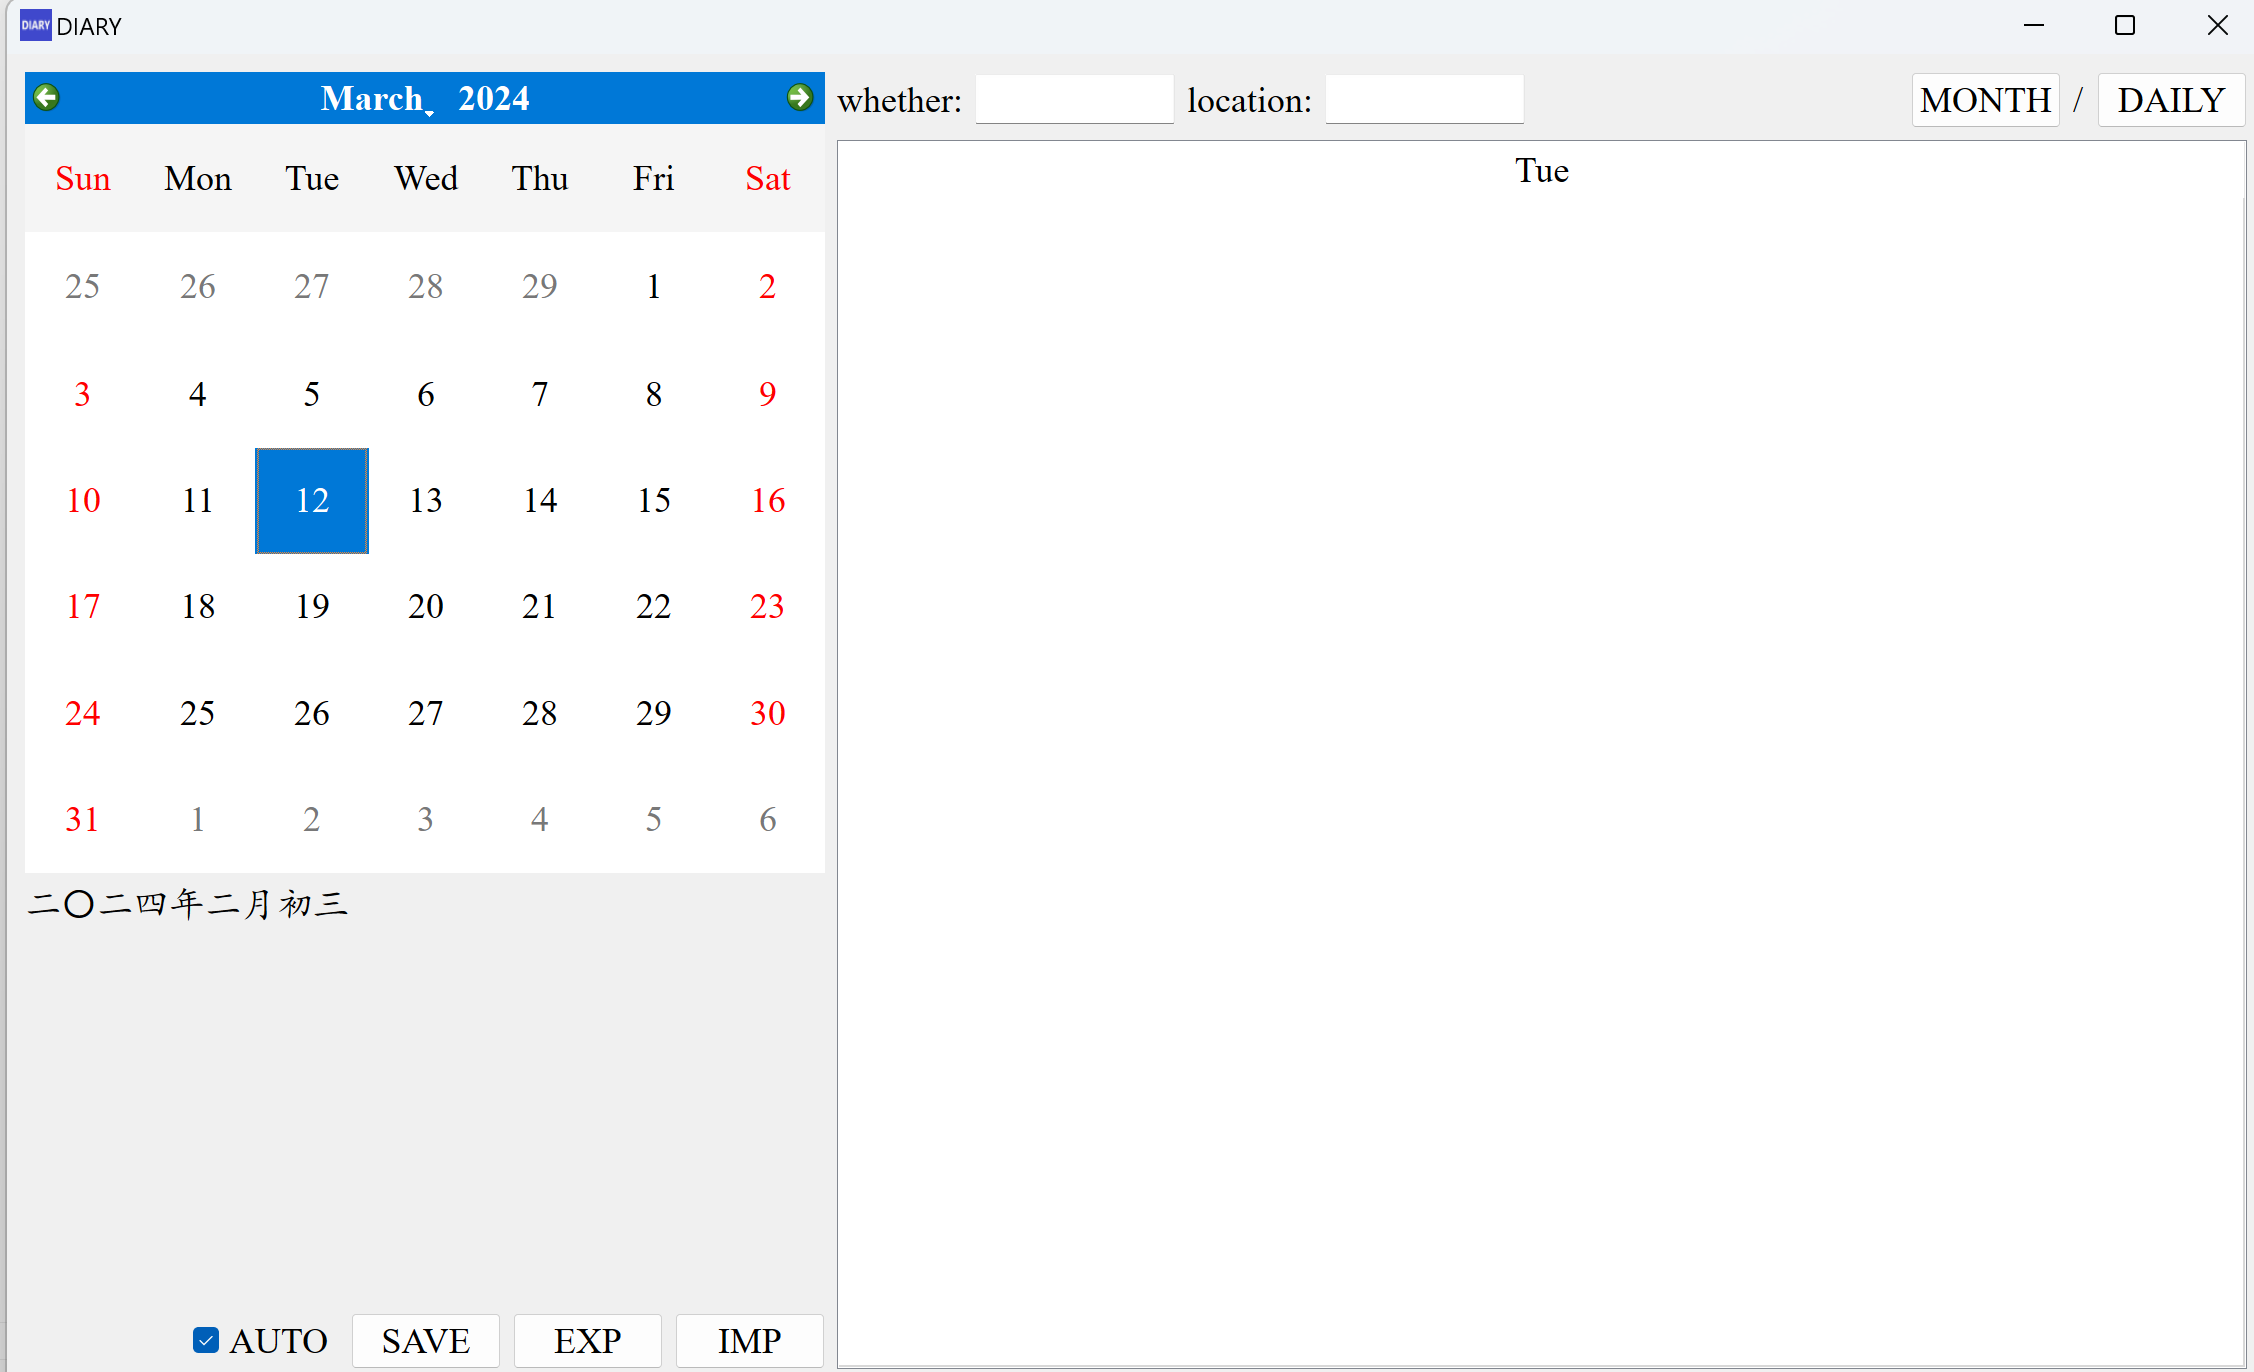
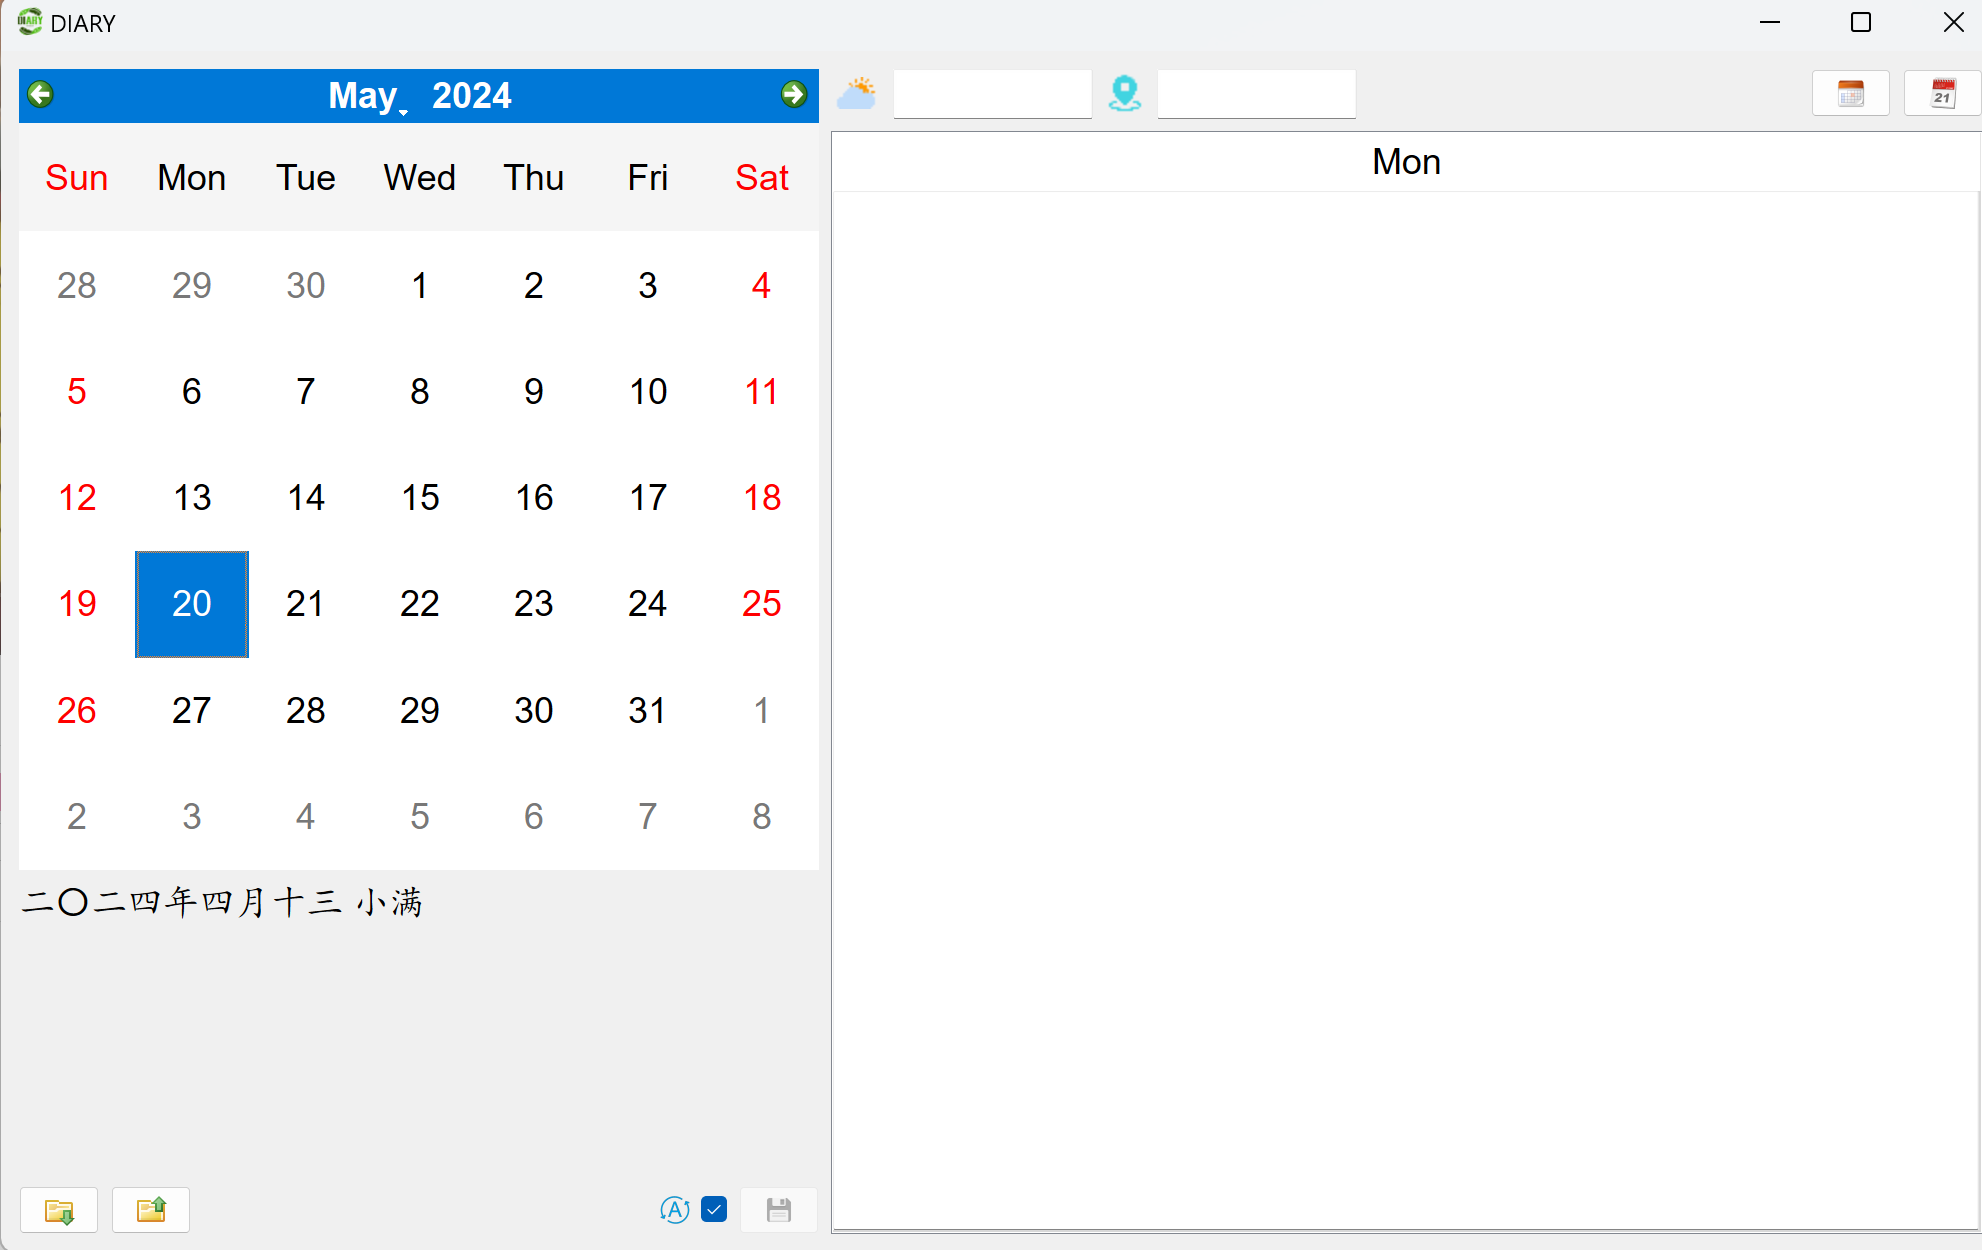
optimizations

diff --git a/core/diary/diary.py b/core/diary/diary.py
@@ -68,29 +68,6 @@ class Ui_Diary(object):
 
         self.horizontalLayout_4 = QHBoxLayout()
         self.horizontalLayout_4.setObjectName(u"horizontalLayout_4")
-        self.horizontalSpacer_2 = QSpacerItem(40, 20, QSizePolicy.Policy.Expanding, QSizePolicy.Policy.Minimum)
-
-        self.horizontalLayout_4.addItem(self.horizontalSpacer_2)
-
-        self.pb_save = QPushButton(self.centralwidget)
-        self.pb_save.setObjectName(u"pb_save")
-        self.pb_save.setMinimumSize(QSize(40, 0))
-        self.pb_save.setMaximumSize(QSize(40, 16777215))
-        self.pb_save.setStyleSheet(u"")
-        self.pb_save.setFlat(False)
-
-        self.horizontalLayout_4.addWidget(self.pb_save)
-
-        self.cb_autosave = QCheckBox(self.centralwidget)
-        self.cb_autosave.setObjectName(u"cb_autosave")
-        self.cb_autosave.setChecked(True)
-
-        self.horizontalLayout_4.addWidget(self.cb_autosave)
-
-        self.horizontalSpacer_3 = QSpacerItem(10, 20, QSizePolicy.Policy.Fixed, QSizePolicy.Policy.Minimum)
-
-        self.horizontalLayout_4.addItem(self.horizontalSpacer_3)
-
         self.pb_imp = QPushButton(self.centralwidget)
         self.pb_imp.setObjectName(u"pb_imp")
         self.pb_imp.setMinimumSize(QSize(40, 0))
@@ -104,6 +81,26 @@ class Ui_Diary(object):
         self.pb_exp.setMaximumSize(QSize(40, 16777215))
 
         self.horizontalLayout_4.addWidget(self.pb_exp)
+
+        self.horizontalSpacer_2 = QSpacerItem(40, 20, QSizePolicy.Policy.Expanding, QSizePolicy.Policy.Minimum)
+
+        self.horizontalLayout_4.addItem(self.horizontalSpacer_2)
+
+        self.cb_autosave = QCheckBox(self.centralwidget)
+        self.cb_autosave.setObjectName(u"cb_autosave")
+        self.cb_autosave.setLayoutDirection(Qt.RightToLeft)
+        self.cb_autosave.setChecked(True)
+
+        self.horizontalLayout_4.addWidget(self.cb_autosave)
+
+        self.pb_save = QPushButton(self.centralwidget)
+        self.pb_save.setObjectName(u"pb_save")
+        self.pb_save.setMinimumSize(QSize(40, 0))
+        self.pb_save.setMaximumSize(QSize(40, 16777215))
+        self.pb_save.setStyleSheet(u"")
+        self.pb_save.setFlat(False)
+
+        self.horizontalLayout_4.addWidget(self.pb_save)
 
 
         self.verticalLayout.addLayout(self.horizontalLayout_4)
@@ -207,26 +204,29 @@ class Ui_Diary(object):
         self.actionIMPORT.setText(QCoreApplication.translate("Diary", u"IMPORT", None))
         self.lb_lunar.setText("")
 #if QT_CONFIG(tooltip)
-        self.pb_save.setToolTip(QCoreApplication.translate("Diary", u"Ctrl+S: SAVE", None))
-#endif // QT_CONFIG(tooltip)
-        self.pb_save.setText("")
-        self.cb_autosave.setText(QCoreApplication.translate("Diary", u"AUTO", None))
-#if QT_CONFIG(tooltip)
-        self.pb_imp.setToolTip(QCoreApplication.translate("Diary", u"IMPORT", None))
+        self.pb_imp.setToolTip(QCoreApplication.translate("Diary", u"Import", None))
 #endif // QT_CONFIG(tooltip)
         self.pb_imp.setText("")
 #if QT_CONFIG(tooltip)
-        self.pb_exp.setToolTip(QCoreApplication.translate("Diary", u"EXPORT", None))
+        self.pb_exp.setToolTip(QCoreApplication.translate("Diary", u"Export", None))
 #endif // QT_CONFIG(tooltip)
         self.pb_exp.setText("")
-        self.lb_weather.setText(QCoreApplication.translate("Diary", u"whether:", None))
-        self.lb_location.setText(QCoreApplication.translate("Diary", u"location:", None))
 #if QT_CONFIG(tooltip)
-        self.pb_monthly.setToolTip(QCoreApplication.translate("Diary", u"Ctrl+M: Month View", None))
+        self.cb_autosave.setToolTip(QCoreApplication.translate("Diary", u"Auto save.", None))
+#endif // QT_CONFIG(tooltip)
+        self.cb_autosave.setText("")
+#if QT_CONFIG(tooltip)
+        self.pb_save.setToolTip(QCoreApplication.translate("Diary", u"Ctrl+S: SAVE", None))
+#endif // QT_CONFIG(tooltip)
+        self.pb_save.setText("")
+        self.lb_weather.setText("")
+        self.lb_location.setText("")
+#if QT_CONFIG(tooltip)
+        self.pb_monthly.setToolTip(QCoreApplication.translate("Diary", u"Ctrl+M: Month view", None))
 #endif // QT_CONFIG(tooltip)
         self.pb_monthly.setText("")
 #if QT_CONFIG(tooltip)
-        self.pb_daily.setToolTip(QCoreApplication.translate("Diary", u"Ctrl+D: Daily View", None))
+        self.pb_daily.setToolTip(QCoreApplication.translate("Diary", u"Ctrl+D: Daily view", None))
 #endif // QT_CONFIG(tooltip)
         self.pb_daily.setText("")
     # retranslateUi

diff --git a/core/diary/diary_window.py b/core/diary/diary_window.py
@@ -4,7 +4,7 @@ import time
 from core.diary import diary_utils
 from core.diary.diary import Ui_Diary
 from core.util.qt_utils import (BaseWindow, TextEdit, QKeyEvent, QIcon, QAction, QDate, Qt, QEvent,
-                                QLocale, QMenu, QSystemTrayIcon, QFileDialog, QHeaderView)
+                                QLocale, QMenu, QSystemTrayIcon, QFileDialog, QHeaderView, QPixmap)
 from core.util import utils, config_utils, dbconfig_utils
 from core.util.i18n_utils import tr
 
@@ -37,6 +37,7 @@ class DiaryWindow(Ui_Diary, BaseWindow):
         self.time_logined = time.time()
         self.logo_path = utils.get_path(config_utils.load_config("style", "logo"))
         self.expired = int(config_utils.load_config("global", "login_expired"))
+        self.show_lunar = int(config_utils.load_config("global", "show_lunar"))
         self.setWindowIcon(QIcon(self.logo_path))
         self.pb_imp.setIcon(QIcon(utils.get_path(
             config_utils.load_config("style", "icon_imp"))))
@@ -48,12 +49,22 @@ class DiaryWindow(Ui_Diary, BaseWindow):
             config_utils.load_config("style", "icon_month"))))
         self.pb_daily.setIcon(QIcon(utils.get_path(
             config_utils.load_config("style", "icon_day"))))
+        icon_weather = QPixmap(utils.get_path(
+            config_utils.load_config("style", "icon_weather")))
+        icon_location = QPixmap(utils.get_path(
+            config_utils.load_config("style", "icon_location")))
+        self.lb_weather.setFixedSize(25, 25)
+        self.lb_location.setFixedSize(20, 20)
+        self.lb_weather.setPixmap(icon_weather.scaled(self.lb_weather.size(), Qt.AspectRatioMode.KeepAspectRatio))
+        self.lb_location.setPixmap(icon_location.scaled(self.lb_location.size(), Qt.AspectRatioMode.KeepAspectRatio))
         self.WEEK_DAYS = [tr(day) for day in (
             "Mon", "Tue", "Wed", "Thu", "Fri", "Sat", "Sun")]
         self.add_tray()
-        self.cb_autosave.setText(tr("AUTO"))
-        self.lb_location.setText(tr("location"))
-        self.lb_weather.setText(tr("whether"))
+        self.cb_autosave.setIcon(QIcon(utils.get_path(
+            config_utils.load_config("style", "icon_auto"))))
+        # self.cb_autosave.setText(tr("AUTO"))
+        # self.lb_location.setText(tr("location"))
+        # self.lb_weather.setText(tr("whether"))
         self.action_diary.setText(tr("Diary"))
         self.action_interest.setText(tr("Interest"))
         self.action_bill.setText(tr("Bill"))

diff --git a/core/note/note_window.py b/core/note/note_window.py
@@ -44,7 +44,9 @@ class NoteWindow(Ui_Note, BaseWindow):
         self.tw_note.setColumnWidth(2, 110)
         for col in range(3, 7):
             self.tw_note.setColumnWidth(col, 80)
-        self.tw_note.verticalHeader().setDefaultSectionSize(60)
+        self.tw_note.verticalHeader().setDefaultSectionSize(self.tw_note.verticalHeader().defaultSectionSize() * 2)
+        # self.tw_note.horizontalHeader().setSectionResizeMode(4, QHeaderView.ResizeMode.ResizeToContents)
+        # self.tw_note.horizontalHeader().setSectionResizeMode(5, QHeaderView.ResizeMode.ResizeToContents)
         self.tw_note.hideColumn(0)
         self.cb_state.addItems(self.states)
         self.update_table_note()
@@ -150,16 +152,17 @@ class NoteWindow(Ui_Note, BaseWindow):
             hidden = (len(self.filter) > 0 and self.filter.upper() not in str(note).upper()) or \
                 (self.state == 1 and note.process >= 100) or (self.state == 2 and note.process < 100)
             tw.setRowHidden(row, hidden)
+            # tw.verticalHeader().setSectionResizeMode(row, QHeaderView.ResizeMode.ResizeToContents)
         tw.setSortingEnabled(True)
         if self.note is not None:
             for row in range(tw.rowCount()):
                 if self.get_table_value(tw, row, 0) == note.id:
-                    self.tw_note.selectRow(row)
+                    tw.selectRow(row)
                     self.row_note = row
                     break
         elif self.row_note > -1 and tw.rowCount() > 0:
             self.row_note = min(self.row_note, tw.rowCount() - 1)
-            self.tw_note.selectRow(self.row_note)
+            tw.selectRow(self.row_note)
             self.note_sel_changed()
         self.connect_all()
 

diff --git a/core/bill/bill_window.py b/core/bill/bill_window.py
@@ -2,7 +2,7 @@ import datetime
 
 from core.bill import bill_utils
 from core.bill.bill import Ui_Bill
-from core.util.qt_utils import BaseWindow, QEvent, QFileDialog, Qt, QIcon, QKeyEvent
+from core.util.qt_utils import BaseWindow, QEvent, QFileDialog, Qt, QIcon, QKeyEvent, QHeaderView
 from core.util import utils, config_utils
 from core.util.i18n_utils import tr
 
@@ -69,8 +69,10 @@ class BillWindow(Ui_Bill, BaseWindow):
         self.lb_out.setStyleSheet(font_style)
         self.tw_bill.setColumnWidth(1, 110)
         self.tw_bill.setColumnWidth(2, 60)
-        for col in range(3, 6):
+        for col in range(4, 6):
             self.tw_bill.setColumnWidth(col, 80)
+        self.tw_bill.horizontalHeader().setSectionResizeMode(2, QHeaderView.ResizeMode.ResizeToContents)
+        self.tw_bill.horizontalHeader().setSectionResizeMode(3, QHeaderView.ResizeMode.ResizeToContents)
         self.tw_bill.hideColumn(0)
         self.update_table_bill()
 

diff --git a/core/interest/interest.py b/core/interest/interest.py
@@ -120,11 +120,11 @@ class Ui_Interest(object):
         Interest.setWindowTitle(QCoreApplication.translate("Interest", u"INTEREST", None))
         self.le_filter.setPlaceholderText(QCoreApplication.translate("Interest", u"Search here.", None))
 #if QT_CONFIG(tooltip)
-        self.pb_imp.setToolTip(QCoreApplication.translate("Interest", u"Ctrl+I: IMPORT", None))
+        self.pb_imp.setToolTip(QCoreApplication.translate("Interest", u"Ctrl+I: Import", None))
 #endif // QT_CONFIG(tooltip)
         self.pb_imp.setText("")
 #if QT_CONFIG(tooltip)
-        self.pb_exp.setToolTip(QCoreApplication.translate("Interest", u"Ctrl+E: EXPORT", None))
+        self.pb_exp.setToolTip(QCoreApplication.translate("Interest", u"Ctrl+E: Export", None))
 #endif // QT_CONFIG(tooltip)
         self.pb_exp.setText("")
 #if QT_CONFIG(tooltip)

diff --git a/core/note/note.py b/core/note/note.py
@@ -120,11 +120,11 @@ class Ui_Note(object):
         Note.setWindowTitle(QCoreApplication.translate("Note", u"NOTE", None))
         self.le_filter.setPlaceholderText(QCoreApplication.translate("Note", u"Search here.", None))
 #if QT_CONFIG(tooltip)
-        self.pb_imp.setToolTip(QCoreApplication.translate("Note", u"Ctrl+I: IMPORT", None))
+        self.pb_imp.setToolTip(QCoreApplication.translate("Note", u"Ctrl+I: Import", None))
 #endif // QT_CONFIG(tooltip)
         self.pb_imp.setText("")
 #if QT_CONFIG(tooltip)
-        self.pb_exp.setToolTip(QCoreApplication.translate("Note", u"Ctrl+E: EXPORT", None))
+        self.pb_exp.setToolTip(QCoreApplication.translate("Note", u"Ctrl+E: Export", None))
 #endif // QT_CONFIG(tooltip)
         self.pb_exp.setText("")
 #if QT_CONFIG(tooltip)

diff --git a/core/bill/bill.py b/core/bill/bill.py
@@ -196,11 +196,11 @@ class Ui_Bill(object):
         self.lb_out.setText(QCoreApplication.translate("Bill", u"OUT", None))
         self.le_filter.setPlaceholderText(QCoreApplication.translate("Bill", u"Search here.", None))
 #if QT_CONFIG(tooltip)
-        self.pb_imp.setToolTip(QCoreApplication.translate("Bill", u"Ctrl+I: IMPORT", None))
+        self.pb_imp.setToolTip(QCoreApplication.translate("Bill", u"Ctrl+I: Import", None))
 #endif // QT_CONFIG(tooltip)
         self.pb_imp.setText("")
 #if QT_CONFIG(tooltip)
-        self.pb_exp.setToolTip(QCoreApplication.translate("Bill", u"Ctrl+E: EXPORT", None))
+        self.pb_exp.setToolTip(QCoreApplication.translate("Bill", u"Ctrl+E: Export", None))
 #endif // QT_CONFIG(tooltip)
         self.pb_exp.setText("")
 #if QT_CONFIG(tooltip)

diff --git a/core/util/qt_utils.py b/core/util/qt_utils.py
@@ -1,6 +1,6 @@
 import os
 
-from PySide6.QtGui import QGuiApplication, QCloseEvent, QFocusEvent, QKeyEvent, QPixmap, QIcon, QAction, QFont
+from PySide6.QtGui import QGuiApplication, QCloseEvent, QFocusEvent, QKeyEvent, QPixmap, QImage, QIcon, QAction, QFont
 from PySide6.QtCore import QDate, Qt, QEvent, QLocale, Signal, QThread, QThreadPool, QRunnable, QSharedMemory
 from PySide6.QtWidgets import QWidget, QApplication, QMainWindow, QWidgetAction, QLabel, QCheckBox, QTableWidget, QComboBox, QLineEdit, QSpinBox, QDoubleSpinBox, QMessageBox, QSizePolicy, QMenu, QSystemTrayIcon, QFileDialog, QPlainTextEdit, QHeaderView, QTableWidgetItem, QStyle, QInputDialog
 

diff --git a/core/util/config_utils.py b/core/util/config_utils.py
@@ -28,7 +28,7 @@ config = {
         "multi_thread": 1,
         "login_expired": 0,
         "hide_on_startup": 0,
-        "language": "en",
+        "show_lunar": 1,
     },
     "style": {
         "font": "Arial,Kaiti",
@@ -45,6 +45,9 @@ config = {
         "icon_del": "style/del.png",
         "icon_month": "style/month.png",
         "icon_day": "style/day.png",
+        "icon_location": "style/location.png",
+        "icon_weather": "style/weather.png",
+        "icon_auto": "style/auto.png",
         "qss": None,
     }
 }

diff --git a/ReadMe.md b/ReadMe.md
@@ -34,6 +34,7 @@ Build config.ini in program path to replace default configuration, usable config
 [global]
 db_name=diary.db
 first_day_of_week=7
+location=CN
 language=zh
 multi_thread=1
 hide_on_startup=0
